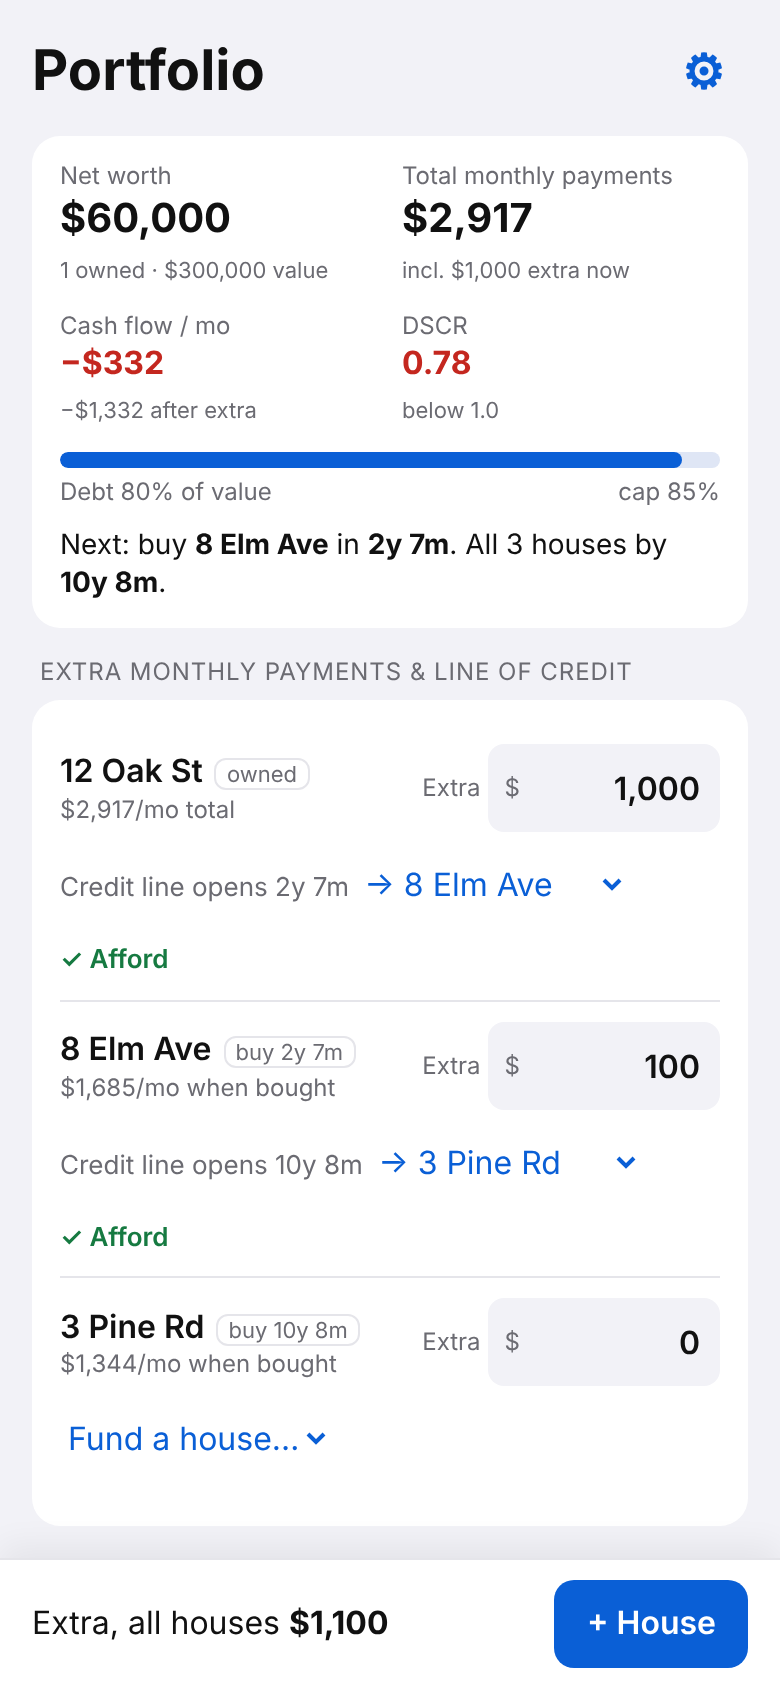
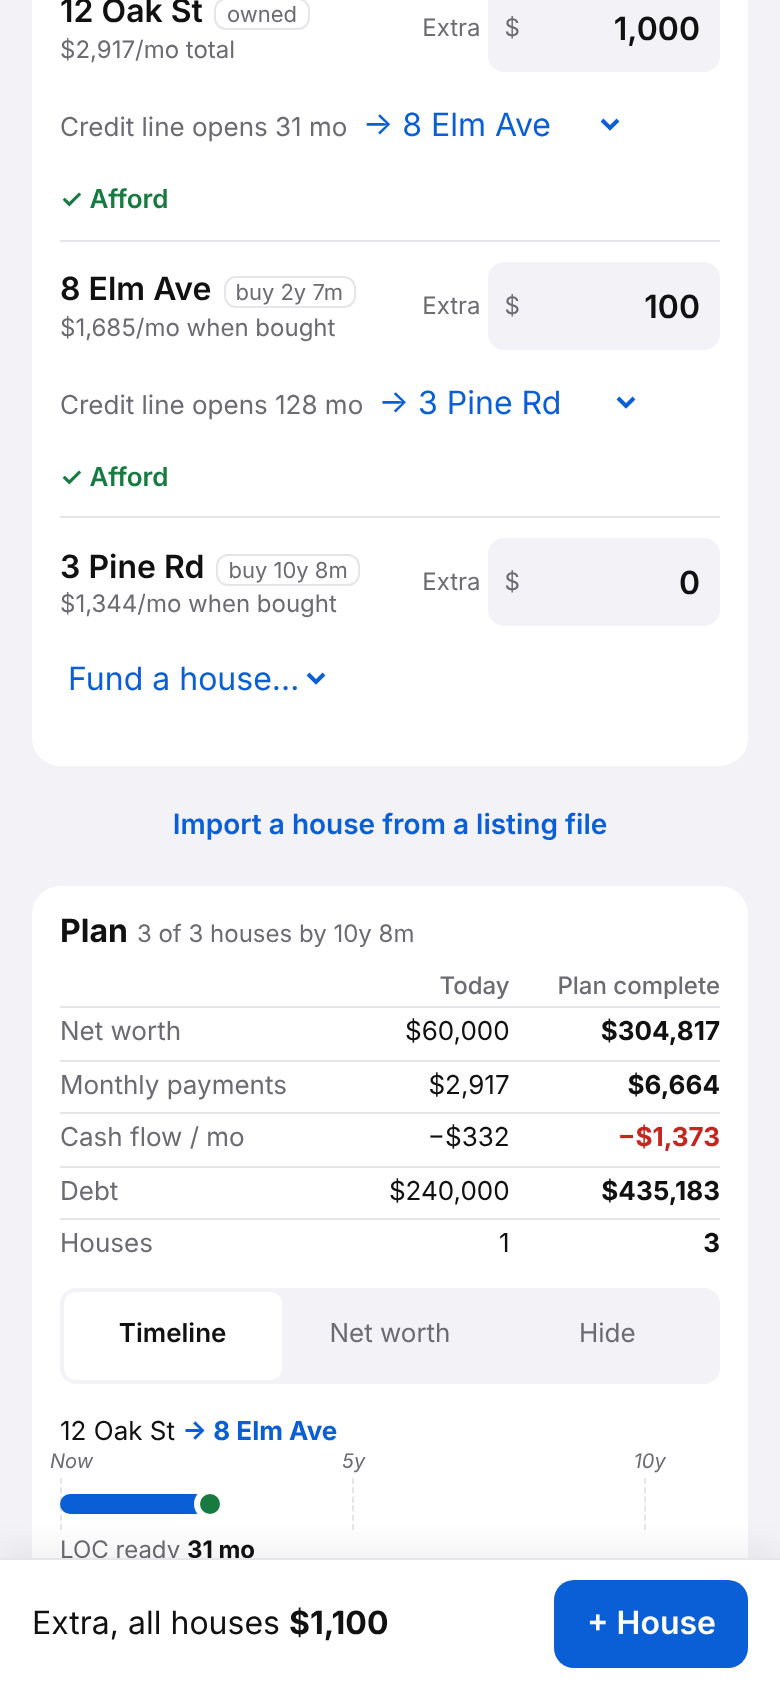
Show credit-line timing in months on main page; update grader expectation
Claude-Session: https://claude.ai/code/session_01T1SyQgdTcpALEohR2VebD5

diff --git a/prototype/v3/app.js b/prototype/v3/app.js
@@ -16,6 +16,7 @@
   const $s = (n) => (n < -0.5 ? '−' : '+') + '$' + Math.round(Math.abs(num(n))).toLocaleString('en-US');
   const grp = (n) => Math.round(num(n)).toLocaleString('en-US');
   const mo = (m) => (!isFinite(m) ? 'never' : m <= 0 ? 'now' : m < 24 ? m + ' mo' : Math.floor(m / 12) + 'y ' + (m % 12) + 'm');
+  const mm = (m) => (!isFinite(m) ? 'never' : m <= 0 ? 'now' : m + ' mo'); /* credit-line timing: plain months */
   const r = (n, d = 0) => (isFinite(n) ? String(+n.toFixed(d)) : '—');
   const esc = (s) => String(s).replace(/[&<>"]/g, (c) => ({ '&': '&amp;', '<': '&lt;', '>': '&gt;', '"': '&quot;' }[c]));
 
@@ -34,7 +35,7 @@
     const grid = tk.map((y) => `<i class="tk" style="left:${pc(y * 12)}%"><span>${y ? y + 'y' : 'Now'}</span></i>`).join('');
     const rows = steps.map((x) => { const h = H(x.id), t = H(x.target), startOk = isFinite(x.start);
       return `<div class="tr" data-go="h/${h.id}"><div class="tl">${esc(h.addr)} <b>→ ${esc(t.addr)}</b></div><div class="trk">${grid}${x.ok ? `<span class="seg2 ${h.status === 'planned' ? 'pl' : ''}" style="left:${pc(x.start)}%;width:${Math.max(1.5, pc(x.end - x.start))}%"></span><span class="dot" style="left:${pc(x.end)}%"></span>` : '<span class="nr">not reachable</span>'}</div>
-      <div class="tm">${x.ok ? `${x.start ? `starts ${mo(x.start)} · ` : ''}LOC ready <b>${mo(x.end)}</b>${x.funds ? '' : ' (not used — target bought sooner)'}` : startOk ? 'the debt cap leaves no room' : 'waiting on an earlier house'}</div></div>`; }).join('');
+      <div class="tm">${x.ok ? `${x.start ? `starts ${mm(x.start)} · ` : ''}LOC ready <b>${mm(x.end)}</b>${x.funds ? '' : ' (not used — target bought sooner)'}` : startOk ? 'the debt cap leaves no room' : 'waiting on an earlier house'}</div></div>`; }).join('');
     return `<div class="tlw" data-testid="timeline">${rows}</div><p class="note">Bar = paying down until the line of credit opens · ● = buy the next house. Tap a row to edit.</p>`;
   }
   function nwChart(pl) {
@@ -59,7 +60,7 @@
     const rows = S.houses.map((h) => {
       const v = pl.V[h.id], a = E.afford(S, h, pl), t = H(h.target), p = pl.purchase[h.id];
       const tag = h.status === 'owned' ? 'owned' : isFinite(p) ? 'buy ' + mo(p) : 'unfunded';
-      const loc = !t ? '' : `Credit line ${isFinite(p + v.locM) ? 'opens ' + mo(p + v.locM) : 'not reachable'}`;
+      const loc = !t ? '' : `Credit line ${isFinite(p + v.locM) ? 'opens ' + mm(p + v.locM) : 'not reachable'}`;
       return `<div class="row" data-go="h/${h.id}" data-testid="ledger-row"><div class="r1"><span><span class="addr">${esc(h.addr)}</span><span class="tag">${tag}</span><div class="pay" data-testid="row-payment" data-k="pay-${h.id}">${$f(v.payment)}/mo ${h.status === 'planned' ? 'when bought' : 'total'}</div></span>
         <span class="ex ${h.driver === 'months' ? 'calc' : ''}">Extra<span class="iw"><em>$</em><input inputmode="decimal" data-testid="extra-input" data-p="h.${h.id}.extra" data-k="x-${h.id}" aria-label="Extra monthly payment for ${esc(h.addr)}" value="${grp(v.X)}"></span></span></div>
         <div class="r2"><span data-testid="loc-line">${loc} ${targetSel(h)}</span><span class="st ${a.cls}" data-testid="afford-status" title="${esc(a.why || '')}">${a.cls === 'na' ? '' : a.txt}</span></div></div>`; }).join('');

diff --git a/prototype/grader/grade.js b/prototype/grader/grade.js
@@ -295,7 +295,7 @@ async function reqChecks(page) {
     const Sx = Object.assign({}, S1, { g: Object.assign({}, E.GDEF, S1.g) }); const want = E.extraFor(Sx, E.H(Sx, 'oak'), 24);
     P.t(near(ex24, want, 1.01), 'wait=24 -> extra field = back-solved value', 1.0, `extra field ${ex24}, engine ${want && want.toFixed(2)}`);
     const tgt = E.H(Sx, 'elm'); P.t(simLoc(Sx.g, oak, tgt, ex24 + 1) <= 24 && simLoc(Sx.g, oak, tgt, ex24 - 3) > 24, 'independent simulation: that extra opens LOC in <=24 and 3$ less does not', 0.5, 'sim ' + simLoc(Sx.g, oak, tgt, ex24));
-    const m = await snap(page); P.t(m.row('oak').exN === Math.round(ex24) && near(m.mon, money((await snap(page)).raw.mon), 0) && m.row('oak').loc && /2y 0m/.test(m.row('oak').loc), 'main page: extra input + "LOC opens 2y 0m" reflect wait=24', 0.3, m.row('oak').exN + ' / ' + m.row('oak').loc);
+    const m = await snap(page); P.t(m.row('oak').exN === Math.round(ex24) && near(m.mon, money((await snap(page)).raw.mon), 0) && m.row('oak').loc && /24 mo/.test(m.row("oak").loc), 'main page: extra input + "opens 24 mo" reflect wait=24', 0.3, m.row('oak').exN + ' / ' + m.row('oak').loc);
     await edit(page, 'h.oak.wait', '12'); const ex12 = money(await page.inputValue('[data-p="h.oak.extra"]')); P.t(ex12 > ex24, 'shorter wait -> bigger extra', 0.2, ex12 + ' vs ' + ex24);
     /* payoff */
     await reset(page); await edit(page, 'h.oak.payoff', '120'); const exP = money(await page.inputValue('[data-p="h.oak.extra"]'));

diff --git a/prototype/grader/report.md b/prototype/grader/report.md
@@ -1,6 +1,6 @@
 # Prototype grader report
 
-Target: `prototype/v3`  |  Run: 2026-11-08T19:56:57.943Z  |  50s
+Target: `prototype/v3`  |  Run: 2026-11-08T20:08:27.513Z  |  51s
 
 ## Score: **84.00 / 85**
 
@@ -35,7 +35,7 @@ Target: `prototype/v3`  |  Run: 2026-11-08T19:56:57.943Z  |  50s
 | B10 | No NaN/Infinity leaks in plan series & KPIs (15 edge scenarios) | 2 | 2.00 | 15/15 sub-checks pass |
 | B11 | Funding cycles (A<->B, A->A, 3-cycle) do not hang or throw | 1 | 1.00 | ok Infinity,Infinity/0/0,162,324/162,0 |
 | B12 | Net worth at t=0 = sum(value - balance - liens) of owned/bought houses | 1 | 1.00 | 2/2 sub-checks pass |
-| B13 | plan() under 100ms for 10 houses (median of 7) | 0.5 | 0.50 | median 2.1ms |
+| B13 | plan() under 100ms for 10 houses (median of 7) | 0.5 | 0.50 | median 2.5ms |
 | B14 | locMonths matches independent month-by-month simulation (60 random scenarios incl. liens/haircut/appr/paid) | 1.5 | 1.50 | exact 60/60, within1 60/60  |
 | B15 | 85% cap counts loan + liens + drawn LOC for every house in a 3-chain (and totals add up) | 2 | 2.00 | 4/4 sub-checks pass |
 | C01 | At 390x844 all 3 ledger rows (incl. extra field + LOC info) fit in first viewport | 2 | 2.00 | 3/3 rows fully visible above fold/bottom bar; last row bottom 751px, bar top 779px |
